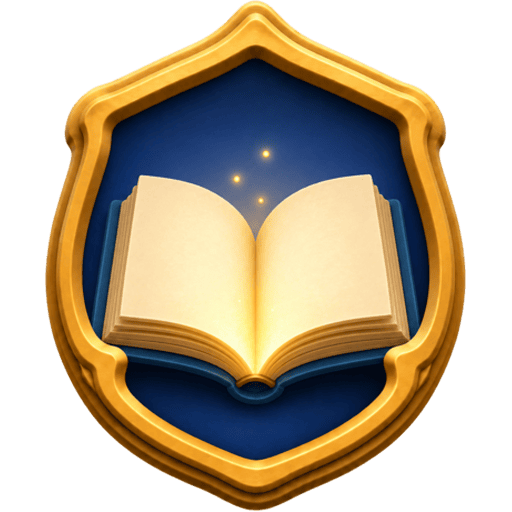
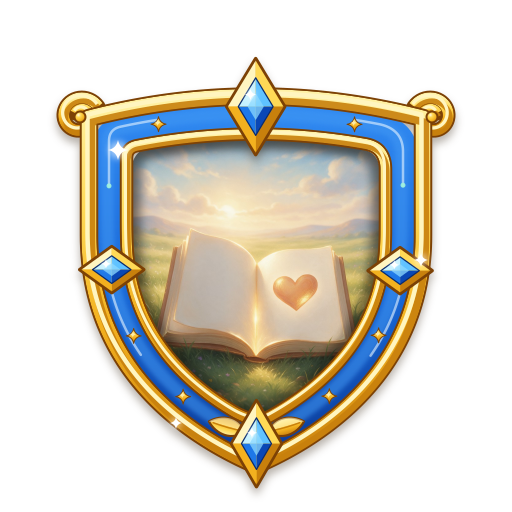
Âdem, Şît, Nûh ve İdrîs'in rozet ve madalyalarını yeniden üret, ortak çerçeveye al
24 rozet ve 4 madalya çerçevesiz kare olarak üretildi (Seedream 5 Pro,
1.5K, stil referansı + kitap pilotu) ve npm run odul-cerceve ile ortak
çerçeveye alındı. Âdem, Şît ve Nûh'un eski tek parça görselleri ile
İdrîs'in yer tutucuları yerini aldı; yayındaki 12 kitabın 84 rozeti ve
12 madalyası artık tek çerçeve ve tek çizim dilinde. Âdem 7'de el yerine
ışıklı taş, Şît 4'te elsiz anahtar çizildi. Sicil, rozet matrisi,
PROJE-MODELI 6.1 ve CLAUDE.md güncellendi.

diff --git a/ICERIK-GORSEL-SICILI.md b/ICERIK-GORSEL-SICILI.md
@@ -1888,8 +1888,16 @@ sembol stili bloğu dahil); aşağıdaki tablo dosya adı, akıştaki yer, figü
 > 60 rozeti ve 8 madalyası `npm run odul-cerceve -- kitap {key}` ile kodla
 > çizilen ortak çerçeveye alındı ve canlıya çıktı (`99e2f49`). Aşağıdaki kitap
 > notlarında geçen "çerçeve bekliyor / çerçeveyi Hasan ekler" ifadeleri o günün
-> durumudur. Âdem, Şît ve Nûh eski tek parça çerçeveli görselleriyle kalır
-> (çerçevesiz kaynakları yok); İdrîs yer tutucudur.
+> durumudur. Âdem, Şît, Nûh ve İdrîs'in 24 rozeti ve 4 madalyası da aynı gün
+> çerçevesiz kare olarak üretildi (Seedream 5 Pro · 1.5K · `stil-referans-gorsel.jpg`
+> + kitabın 1. bölüm pilotu; İdrîs'te İbrahim 1. bölüm) ve ortak çerçeveye alındı.
+> Böylece yayındaki 12 kitabın 84 rozeti ve 12 madalyası tek çerçeve ve tek çizim
+> dilindedir. Üretim notları: 11 aday ikinci tura girdi (sembolün üstüne amblem,
+> ağaç ya da yazı benzeri çizim gelmişti); Âdem 7, Şît 3, İdrîs 3 ve Nûh 3 maskeli
+> rötuşla (replace, ~75 kredi) temizlendi. **Âdem 7 "Sakin Güç"**: içerikteki sembol
+> "içinden ışık yükselen açık bir el" figür kuralına takıldığı için eski rozetteki
+> gibi **durgun suda ışık yükselen taş** çizildi. **Şît 4**: "elden ele geçen anahtar"
+> el çizilmeden, katlanmış bezin üstünde parlayan anahtar olarak çizildi.
 
 | Varlık | Dosya | Durum |
 |---|---|---|
@@ -1897,12 +1905,12 @@ sembol stili bloğu dahil); aşağıdaki tablo dosya adı, akıştaki yer, figü
 | Kitap kapağı | `kitaplar/hz-musa/kapak.png` | ✅ Var (600×900, **yazısız** — başlık tasarımda eklenecek; 2K ana dosya `gorsel-kaynaklari/kitaplar/hz-musa/kapak.png`) |
 | Harita durağı | `kitaplar/hz-{adem,sit,idris,nuh}/harita-kapak.jpg` | ✅ Var (597×597, kare — bu görsel 16:9 kuralına tabi değildir) |
 | Harita durağı | `kitaplar/hz-musa/harita-kapak.jpg` | ✅ Var (597×597, Nûh durağıyla aynı çerçeve ailesi) |
-| Rozet | `rozetler/hz-adem/bolum-1…8.png` · `hz-sit/bolum-1…4.png` | ✅ 12 gerçek görsel, 512×512 şeffaf |
-| Rozet | `rozetler/hz-idris/bolum-1…4.png` | ⬜ 4 yer tutucu — brifler teslimin §H'sinde |
-| Rozet | `rozetler/hz-nuh/bolum-1…8.png` | ✅ 8 gerçek görsel, 512×512 şeffaf (13 Eki 2026) |
-| Madalya | `madalyalar/hz-adem.png` · `hz-sit.png` | ✅ 2 gerçek görsel, 512×512 şeffaf |
-| Madalya | `madalyalar/hz-idris.png` | ⬜ Yer tutucu — brif teslimin §C3'ünde (sembol: kayadaki ışıklı iz) |
-| Madalya | `madalyalar/hz-nuh.png` | ✅ Gerçek görsel, 512×512 şeffaf (13 Eki 2026; sembol: dağda duran gemi) |
+| Rozet | `rozetler/hz-adem/bolum-1…8.png` · `hz-sit/bolum-1…4.png` | ✅ 12 görsel, 512×512 şeffaf, **ortak çerçeveli** (20 Eki 2026'da çerçevesiz kare olarak yeniden üretildi ve ortak çerçeveye alındı; eski tek parça hâlleri git geçmişinde) |
+| Rozet | `rozetler/hz-idris/bolum-1…4.png` | ✅ 4 görsel, 512×512 şeffaf, **ortak çerçeveli** (20 Eki 2026; brifler teslimin §H'sinden) |
+| Rozet | `rozetler/hz-nuh/bolum-1…8.png` | ✅ 8 görsel, 512×512 şeffaf, **ortak çerçeveli** (20 Eki 2026'da çerçevesiz kare olarak yeniden üretildi ve ortak çerçeveye alındı) |
+| Madalya | `madalyalar/hz-adem.png` · `hz-sit.png` | ✅ 2 görsel, 512×512 şeffaf, **ortak çerçeveli** (20 Eki 2026'da çerçevesiz kare olarak yeniden üretildi ve ortak çerçeveye alındı; Âdem: güneş önünde fidan · Şît: temele oturmuş taş) |
+| Madalya | `madalyalar/hz-idris.png` | ✅ 512×512 şeffaf, **ortak çerçeveli** (20 Eki 2026; sembol: kayadaki ışıklı iz — üç çizgi harf/rakam gibi okunduğu ve ilk aday hilal çizdiği için tek ışıklı oyuk olarak üretildi) |
+| Madalya | `madalyalar/hz-nuh.png` | ✅ 512×512 şeffaf, **ortak çerçeveli** (20 Eki 2026'da çerçevesiz kare olarak yeniden üretildi ve ortak çerçeveye alındı; sembol: dağda duran gemi — ilk adayda direk haç gibi göründüğü için direksiz, çatılı gövde) |
 | Rozet | `rozetler/hz-musa/bolum-1…10.png` | ✅ 10 görsel, 512×512 şeffaf, **ortak çerçeveli** (20 Eki 2026; kare teslim 13 Eki 2026; ana dosyalar `gorsel-kaynaklari/rozetler/hz-musa/`) |
 | Madalya | `madalyalar/hz-musa.png` | ✅ 512×512 şeffaf, **ortak çerçeveli** (20 Eki 2026; kare teslim 13 Eki 2026; sembol: açılan yolun başındaki asa) |
 | Kitap kapağı | `kitaplar/hz-eyyub/kapak.png` | ✅ Var (600×900, **yazısız** — başlık tasarımda eklenecek; 2K ana dosya `gorsel-kaynaklari/kitaplar/hz-eyyub/kapak.png`) |
@@ -2237,10 +2245,10 @@ yeniden çalıştırılır. Kod ve yol değişmez.
   `gorsel-kaynaklari/` `public/` dışındadır, siteye servis edilmez ve repoya
   girmez (`.gitignore`). Çerçeve betiği bu ana dosyadan çalışır; ana dosya
   silinirse çerçeve yeniden çizilemez, o yüzden saklanır.
-- **Eski rozetler:** Âdem, Şît ve Nûh rozetleri eski, üretimde çizilmiş
-  çerçevelerle teslim edilmiştir; çerçevesiz ana dosyaları yoktur, bu yüzden
-  ortak çerçeveye geçemezler (20 Eki 2026). Yeniden kare üretimi ya da iç
-  sahneyi kesip çıkarma Hasan'ın ayrı kararıdır; oturum kendiliğinden yapmaz.
+- **Eski rozetler:** Âdem, Şît ve Nûh rozetleri eskiden üretimde çizilmiş
+  çerçevelerle teslim edilmişti; 20 Eki 2026'da (Hasan kararı: kırpma yerine
+  yeniden üretim) çerçevesiz kare olarak yeniden üretilip ortak çerçeveye
+  alındılar. Eski tek parça dosyalar yalnız git geçmişindedir.
 
 **Oturum yapmaz:** `books.ts` ve diğer kod dosyalarına dokunmaz, dosya adını
 değiştirmez, yeni görsel yeri açmaz (o aktarımın işidir), commit atmaz.
@@ -2256,8 +2264,8 @@ görsel `gorsel-kaynaklari/` altına konur, ortak çerçeveyi `npm run odul-cerc
 
 | Klasör | Kalıp | Kurulan | Not |
 |---|---|---|---|
-| `public/rozetler/hz-{bookKey}/` | `bolum-{n}.png` | **84** | âdem 8 + şît 4 **gerçek** (11 Ağu 2026) · idrîs 4 **yer tutucu** (12 Ağu 2026) · nûh 8 **gerçek** (13 Eki 2026) · musa 10 · eyyûb 5 · yunus 5 · ibrahim 9 · yusuf 10 · süleyman 7 · îsâ 8 · ismail 6 **ortak çerçeveli** (kare teslim 13–17 Eki, çerçeve 20 Eki 2026 — `npm run odul-cerceve`). Hedef 34 (İlk İzler Vadisi): + hûd 5, sâlih 5 — bu ikisinin klasörü **henüz yok**, içerikleri `books.ts`'e aktarılınca betik açacak |
-| `public/madalyalar/` | `hz-{bookKey}.png` | **12** | âdem + şît **gerçek** (11 Ağu 2026) · idrîs **yer tutucu** (12 Ağu 2026) · nûh **gerçek** (13 Eki 2026) · musa · eyyûb · yunus · ibrahim · yusuf · süleyman · îsâ · ismail **ortak çerçeveli** (kare teslim 13–17 Eki, çerçeve 20 Eki 2026). İlk İzler Vadisi hedefi 6 |
+| `public/rozetler/hz-{bookKey}/` | `bolum-{n}.png` | **84** | **Hepsi ortak çerçeveli (20 Eki 2026):** âdem 8 · şît 4 · idrîs 4 · nûh 8 (20 Eki'de yeniden üretildi) · musa 10 · eyyûb 5 · yunus 5 · ibrahim 9 · yusuf 10 · süleyman 7 · îsâ 8 · ismail 6 **ortak çerçeveli** (kare teslim 13–17 Eki, çerçeve 20 Eki 2026 — `npm run odul-cerceve`). Hedef 34 (İlk İzler Vadisi): + hûd 5, sâlih 5 — bu ikisinin klasörü **henüz yok**, içerikleri `books.ts`'e aktarılınca betik açacak |
+| `public/madalyalar/` | `hz-{bookKey}.png` | **12** | **Hepsi ortak çerçeveli (20 Eki 2026):** âdem · şît · idrîs · nûh (20 Eki'de yeniden üretildi) · musa · eyyûb · yunus · ibrahim · yusuf · süleyman · îsâ · ismail **ortak çerçeveli** (kare teslim 13–17 Eki, çerçeve 20 Eki 2026). İlk İzler Vadisi hedefi 6 |
 | `public/unvanlar/` | `{unvan-anahtari}.png` | **10** | **Hepsi gerçek (20 Eki 2026):** kodla çizilen kitap temalı ortak çerçeve + gece göğü zeminli pencere + Hasan'ın şeffaf iç ikonları (`gorsel-kaynaklari/unvanlar/{anahtar}.png`; `npm run odul-cerceve -- unvan`). `buyuk-yolculuk-kasifi` iç ikonu Yeni Gezgin'e çok benzediği için Magnific ile yeniden üretildi (altın küre ve rota; eski ikon `gorsel-kaynaklari/unvanlar/eski/`). Anahtarlar: `yeni-gezgin`, `yol-kasifi`, `deger-toplayicisi`, `yol-arkadasi`, `bilge-yolcu`, `hikaye-ustasi`, `emanet-koruyucusu`, `isik-tasiyicisi`, `kissa-rehberi`, `buyuk-yolculuk-kasifi` (12 Eki 2026'da `atlas-bilgini` ve `yedi-bolge-kasifi` yerine). Anahtarlar `derive.ts:UNVAN_ESIKLERI` + `unvanAnahtari()` türetimidir; eşik tablosu değişirse `npm run gorsel-yertutucu -- unvanlar` yeniden çalıştırılır |
 | `public/avatarlar/` | `avatar-{1..10}.jpg` | **10** | Veli panelinde üçerli pencerede oklarla gezilir |
 | `public/ikonlar/` | `final-kapisi.svg` | **1** | Bölüm rotasındaki **Büyük Final Testi** durağının ikonu — arayüz ikonu olduğu için SVG kalır |

diff --git a/ROZET-MATRISI.md b/ROZET-MATRISI.md
@@ -418,9 +418,10 @@ Bölüm sayıları ve değerler `KITAP-KATALOGU-VE-URETIM-PLANI.md`'den alınmı
 (ICERIK-GORSEL-SICILI §6.2, PROJE-MODELI 6.1); üretim oturumu kare teslimden
 sonra betiği çalıştırır.
 **20 Ekim 2026:** Musa, Eyyûb, Yunus, İbrahim, Yusuf, Süleyman, Îsâ ve İsmail'in
-60 rozeti ortak çerçeveyle `✓` oldu (`99e2f49`). Âdem, Şît ve Nûh eski tek parça
-çerçeveli görselleriyle `✓` kalır; ortak çerçeveye geçmeleri için çerçevesiz
-yeniden üretim gerekir (Hasan kararı).
+60 rozeti ortak çerçeveyle `✓` oldu (`99e2f49`). Aynı gün Âdem 8, Şît 4, Nûh 8
+ve İdrîs 4 rozet çerçevesiz kare olarak yeniden üretilip ortak çerçeveye alındı
+(Hasan kararı: kırpma yerine yeniden üretim). Yayındaki 12 kitabın **84 rozetinin
+hepsi `✓`**, tek çerçeve ve tek çizim dilindedir.
 **17 Ekim 2026 itibarıyla 74 rozet görseli teslim edildi** (Hz. Âdem 8 ·
 Hz. Şît 4 · Hz. Nûh 8 — 512×512 şeffaf PNG, çerçeveli; Hz. Musa 10 · Hz. Eyyûb 5 ·
 Hz. Yunus 5 · Hz. İbrahim 9 · Hz. Yusuf 10 · Hz. Süleyman 7 · Hz. Îsâ 8 — 512×512 kare PNG, çerçeve bekliyor). Kalan 142 rozet görseli bekliyor.
@@ -431,7 +432,7 @@ Hz. Yunus 5 · Hz. İbrahim 9 · Hz. Yusuf 10 · Hz. Süleyman 7 · Hz. Îsâ 8 
 |---|---|---:|---|---|---|---|
 | Hz. Âdem | `adem` | 8 | `hz-adem/bolum-1…8` | öğrenme, sorumluluk, tövbe, umut | ✅ Nihai (§2) | ✓ 8/8 |
 | Hz. Şît | `sit` | 4 | `hz-sit/bolum-1…4` | emanet, devamlılık, aile, doğruluk | ✅ Nihai (§2) | ✓ 4/4 |
-| Hz. İdrîs | `idris` | 4 | `hz-idris/bolum-1…4` | bilgi, doğruluk, sabır, emek | ✅ Nihai (§2) | — 0/4 |
+| Hz. İdrîs | `idris` | 4 | `hz-idris/bolum-1…4` | bilgi, doğruluk, sabır, emek | ✅ Nihai (§2) | ✓ 4/4 |
 | Hz. Nûh | `nuh` | 8 | `hz-nuh/bolum-1…8` | sabır, güven, tedbir, umut | ✅ Nihai (§2) | ✓ 8/8 |
 | Hz. Hûd | `hud` | 5 | `hz-hud/bolum-1…5` | tevazu, cesaret, doğruluk, sorumluluk | Bekliyor (K1) | — |
 | Hz. Sâlih | `salih` | 5 | `hz-salih/bolum-1…5` | emanet, ölçülülük, sözünde durma, saygı | Bekliyor (K1) | — |
@@ -511,10 +512,10 @@ Hz. Yunus 5 · Hz. İbrahim 9 · Hz. Yusuf 10 · Hz. Süleyman 7 · Hz. Îsâ 8 
 | Nihai rozet adı kayıtlı | 84 |
 | Geçici demo adı kayıtlı | 0 |
 | Ad bekleyen | 132 |
-| Üretilmiş rozet görseli | 80 |
-| Rozet görseli bekleyen | 136 |
+| Üretilmiş rozet görseli | 84 |
+| Rozet görseli bekleyen | 132 |
 
-Üretilmiş 80 görsel: `rozetler/hz-adem/bolum-1…8.png` ve
+Üretilmiş 84 görsel (20 Eki 2026'dan beri hepsi ortak çerçeveli; Âdem, Şît, Nûh ve İdrîs o gün yeniden üretildi): `rozetler/hz-adem/bolum-1…8.png` ve
 `rozetler/hz-sit/bolum-1…4.png` (11 Ağu 2026), `rozetler/hz-nuh/bolum-1…8.png`
 (13 Eki 2026) — 512×512 şeffaf PNG; `rozetler/hz-musa/bolum-1…10.png`
 (13 Eki 2026), `rozetler/hz-eyyub/bolum-1…5.png` (15 Eki 2026) ve

diff --git a/PROJE-MODELI.md b/PROJE-MODELI.md
@@ -1626,10 +1626,10 @@ public/
   - **Komutlar:** `npm run odul-cerceve -- kitap {bookKey}` (o kitabın bütün
     rozetleri + madalyası) · `npm run odul-cerceve -- unvan [anahtar…]`.
     Betik aynı kaynaktan byte byte aynı dosyayı üretir.
-  - **Kapsam dışı kalanlar:** Hz. Âdem, Şît ve Nûh'un rozet ve madalyaları eski,
-    çerçevesi içine çizilmiş tek parça görsellerdir; çerçevesiz ana dosyaları
-    olmadığı için ortak çerçeveye geçmemiştir (yeniden üretim ya da kırpma —
-    Hasan'ın kararı). Hz. İdrîs yer tutucudur.
+  - **Kapsam:** yayındaki 12 kitabın 84 rozeti, 12 madalyası ve 10 unvanın
+    hepsi bu çerçevededir. Âdem, Şît ve Nûh'un eski tek parça çerçeveli
+    görselleri ile İdrîs'in yer tutucuları 20 Eki 2026'da çerçevesiz kare olarak
+    yeniden üretildi (kırpma yerine — Hasan); böylece set tek çizim dilindedir.
   - **Rota durağı çerçevesi (AÇIK KARAR):** aynı aileden halka çerçeve ve renk
     paleti (mavi · yeşil · kırmızı · mor · krem "özel") betikte hazırdır;
     öneri her kitaba rota sırasında döngülü renk. Ekrana **girmedi:** durak

diff --git a/CLAUDE.md b/CLAUDE.md
@@ -166,9 +166,9 @@ Ekranda, kodda ve metinlerde **yalnızca üç kavram**: **ROZET · MADALYA · UN
   `scripts/odul-cerceveleri.mjs`. İç görsel çerçevesiz üretilip
   `gorsel-kaynaklari/` altına konur, `npm run odul-cerceve -- kitap {bookKey}`
   (ya da `-- unvan`) çerçeveyi çizip `public/`'e aynı adla yazar. Ödül PNG'si
-  `public/`'e elle konmaz; çerçeve değişecekse yalnız betik değişir. Âdem, Şît,
-  Nûh eski tek parça (çerçevesiz kaynakları yok); rota durağı çerçevesi hazır
-  ama ekrana girmedi (ilerleme halkası kararı açık).
+  `public/`'e elle konmaz; çerçeve değişecekse yalnız betik değişir. Yayındaki
+  12 kitabın hepsi bu çerçevede (20 Eki 2026); rota durağı çerçevesi hazır ama
+  ekrana girmedi (ilerleme halkası kararı açık).
 - **"Sen Olsaydın" salt metindir** (Karar 11 Tem 2026) — seçeneklerde görsel yok.
 - **Sesli anlatım her bölümde vardır (KARAR 12 Eki 2026 — PROJE-MODELI 6.5).** Yol
   `varlikYollari.ts:sesliAnlatim()` ile türetilir; `books.ts`'te ses alanı YOKTUR
